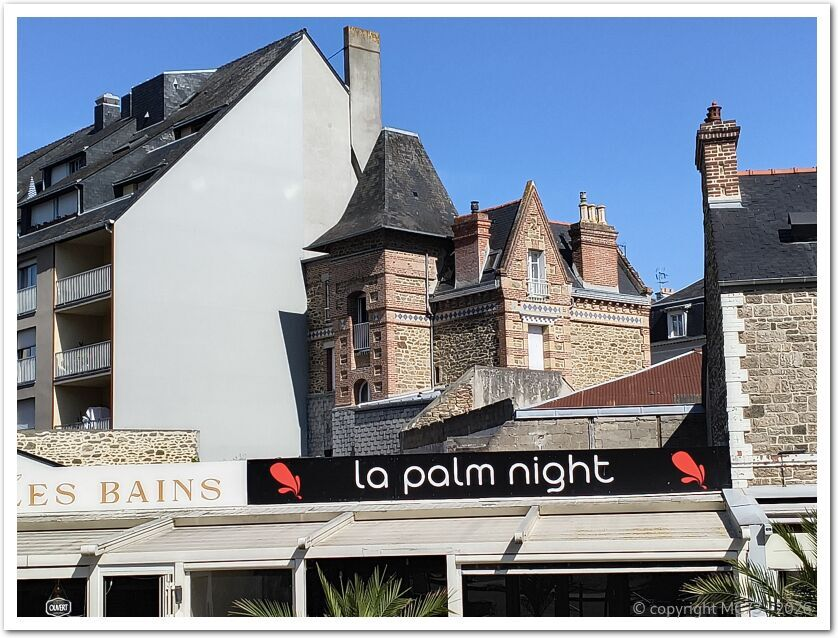
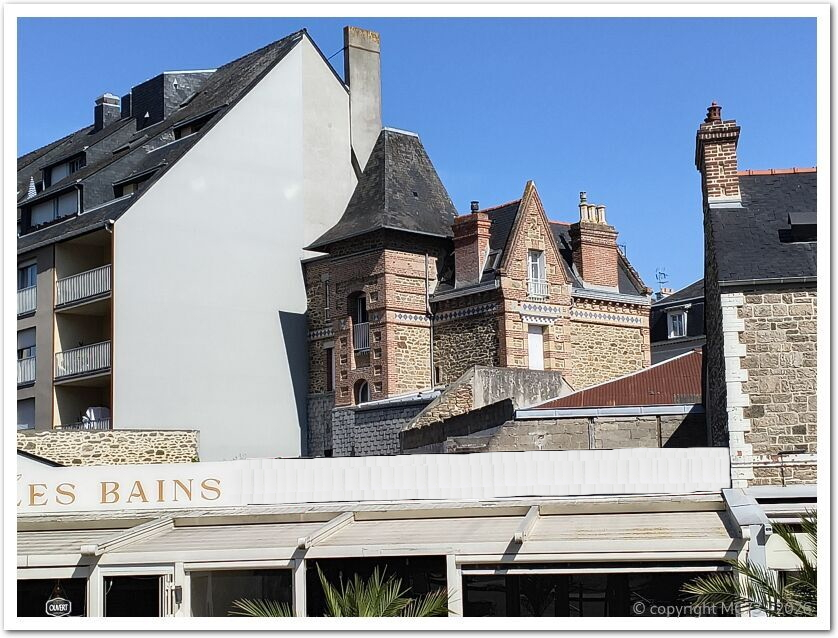
modif 20260710-1747

Changed region(s): [[0.2792, 0.685, 0.8687, 0.8041]]

diff --git a/content/voyages/2026/25-Dinard/index.md b/content/voyages/2026/25-Dinard/index.md
@@ -6,7 +6,7 @@ draft: false
 weight: 240
 ---
 Visite de Dinard le matin.  
-Jolies Villas.et jolis parcours sur la côte avec vue sur Saint Malo.  
+Jolies villas et jolis parcours sur la côte avec vue sur Saint Malo.  
 
 
 {{< bundle-gallery >}}

diff --git a/content/voyages/2026/26-Dinard/index.md b/content/voyages/2026/26-Dinard/index.md
@@ -1,0 +1,11 @@
+---
+title: Dinard le 10 juillet
+date: 2026-07-10
+publishDate: 2026-07-10
+draft: false
+weight: 250
+---
+Nous partons visiter Saint Malo avec le 'bus de mer', 10 minutes de traversée.  
+
+
+{{< bundle-gallery >}}
